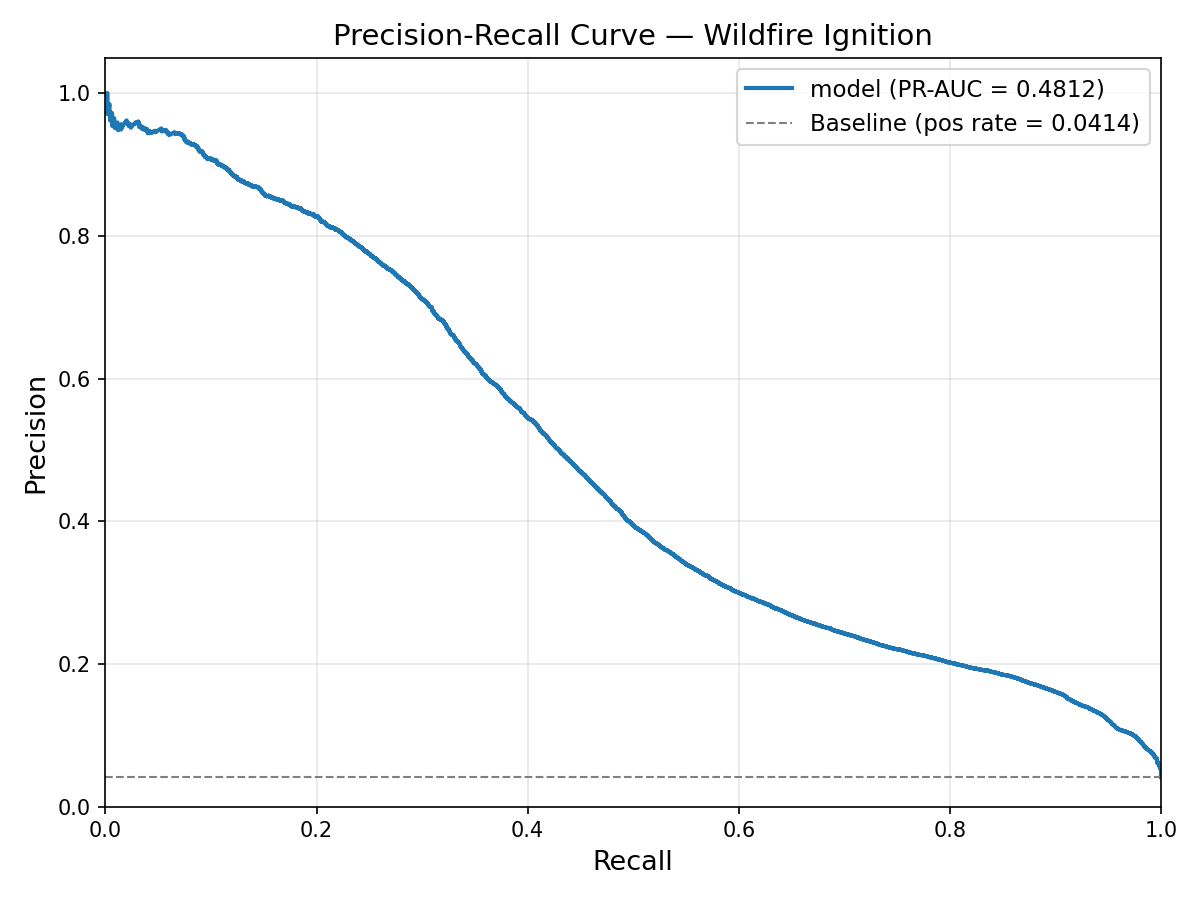
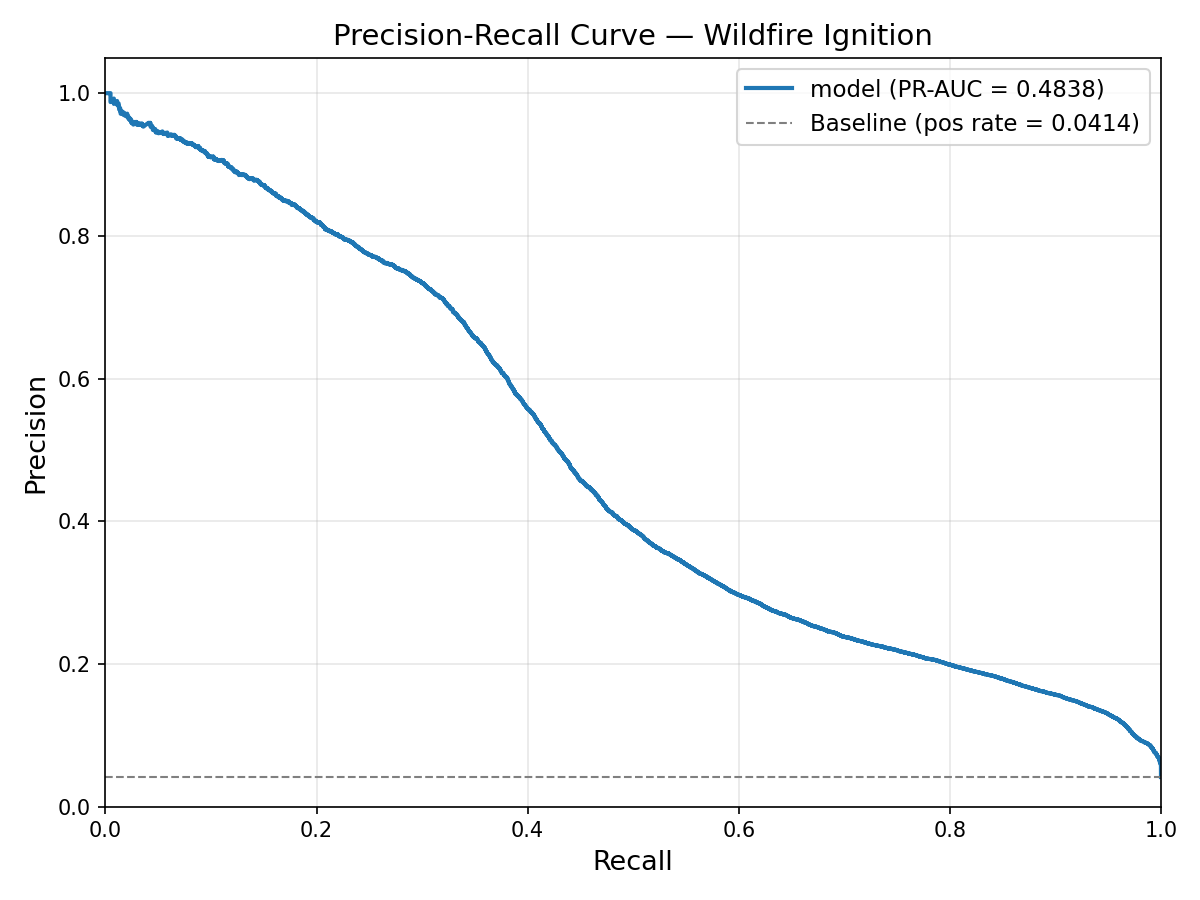
Add LANDFIRE vegetation features, improving LightGBM PR-AUC 0.467 → 0.531
Queries LANDFIRE LF2022 EVT, FBFM40, and Canopy Cover layers for all 25k
H3 cells via the ArcGIS ImageServer getSamples REST API. Results cached to
data/raw/landfire/landfire_features.parquet. Adds eval_convlstm.py for
standalone ConvLSTM evaluation (PR-AUC=0.360).

diff --git a/src/data/landfire.py b/src/data/landfire.py
@@ -1,0 +1,137 @@
+"""
+src/data/landfire.py
+====================
+Query LANDFIRE vegetation/fuel layer values at H3 cell centroids via the
+ArcGIS ImageServer getSamples REST API — no download or rasterio required.
+
+Layers queried (LF 2022)
+------------------------
+LF2022_EVT_CONUS    Existing Vegetation Type   (categorical int)
+LF2022_FBFM40_CONUS Fire Behavior Fuel Model 40 (categorical int)
+LF2022_CC_CONUS     Canopy Cover               (0–100 %)
+
+Output
+------
+DataFrame: cell_id, evt, fbfm40, canopy_cover
+Cached to data/raw/landfire/landfire_features.parquet after first run.
+"""
+
+from __future__ import annotations
+
+import logging
+import time
+from pathlib import Path
+
+import numpy as np
+import pandas as pd
+import requests
+
+log = logging.getLogger(__name__)
+
+BASE_URL = "https://lfps.usgs.gov/arcgis/rest/services/Landfire_LF2022/{layer}/ImageServer/getSamples"
+
+LAYERS = {
+    "evt":          "LF2022_EVT_CONUS",
+    "fbfm40":       "LF2022_FBFM40_CONUS",
+    "canopy_cover": "LF2022_CC_CONUS",
+}
+
+OUT_DIR = Path(__file__).resolve().parents[2] / "data" / "raw" / "landfire"
+BATCH_SIZE = 500   # points per API request (max ~1000)
+
+
+def _query_layer(lats: np.ndarray, lons: np.ndarray, layer_name: str) -> np.ndarray:
+    """
+    Query a LANDFIRE ImageServer layer at all (lat, lon) points.
+    Batches requests to stay within API limits.
+
+    Returns np.ndarray of sampled values (float32), same length as lats.
+    """
+    import json as _json
+
+    url = BASE_URL.format(layer=layer_name)
+    n = len(lats)
+    values = np.full(n, np.nan, dtype=np.float32)
+
+    for start in range(0, n, BATCH_SIZE):
+        end = min(start + BATCH_SIZE, n)
+        points = [[float(lons[i]), float(lats[i])] for i in range(start, end)]
+        geo = {"points": points, "spatialReference": {"wkid": 4326}}
+        params = {
+            "geometry":     _json.dumps(geo),
+            "geometryType": "esriGeometryMultipoint",
+            "sampleCount":  len(points),
+            "f":            "json",
+        }
+
+        for attempt in range(3):
+            try:
+                resp = requests.post(url, data=params, timeout=60)
+                resp.raise_for_status()
+                data = resp.json()
+                break
+            except Exception as exc:
+                if attempt == 2:
+                    raise
+                log.warning("Batch %d-%d attempt %d failed: %s — retrying…",
+                            start, end, attempt + 1, exc)
+                time.sleep(2 ** attempt)
+
+        for sample in data.get("samples", []):
+            idx = start + sample["locationId"]
+            try:
+                values[idx] = float(sample["value"])
+            except (ValueError, TypeError):
+                values[idx] = 0.0
+
+        if (start // BATCH_SIZE) % 10 == 0:
+            log.info("  %s: %d/%d points sampled", layer_name, end, n)
+
+    return values
+
+
+def build_vegetation_features(grid_df: pd.DataFrame,
+                               tif_dir=None) -> pd.DataFrame:
+    """
+    Build per-cell static vegetation/fuel features from LANDFIRE ImageServer.
+
+    Parameters
+    ----------
+    grid_df  : H3 grid DataFrame with columns cell_id, lat, lon
+    tif_dir  : ignored (kept for API compatibility)
+
+    Returns
+    -------
+    DataFrame with columns: cell_id, evt, fbfm40, canopy_cover
+    """
+    OUT_DIR.mkdir(parents=True, exist_ok=True)
+    parquet_path = OUT_DIR / "landfire_features.parquet"
+
+    if parquet_path.exists():
+        log.info("Loading cached LANDFIRE features from %s", parquet_path)
+        return pd.read_parquet(parquet_path)
+
+    lats = grid_df["lat"].values
+    lons = grid_df["lon"].values
+
+    result = pd.DataFrame({"cell_id": grid_df["cell_id"].values})
+
+    for col, layer_name in LAYERS.items():
+        log.info("Querying LANDFIRE layer %s (%d cells)…", layer_name, len(lats))
+        vals = _query_layer(lats, lons, layer_name)
+        result[col] = vals
+
+    result["evt"]          = result["evt"].fillna(0).astype(np.int32)
+    result["fbfm40"]       = result["fbfm40"].fillna(0).astype(np.int32)
+    result["canopy_cover"] = result["canopy_cover"].fillna(0.0).astype(np.float32)
+
+    result.to_parquet(parquet_path, index=False)
+    log.info(
+        "LANDFIRE features built and cached → %s  "
+        "(evt unique=%d, fbfm40 unique=%d, canopy_cover mean=%.1f%%)",
+        parquet_path,
+        result["evt"].nunique(),
+        result["fbfm40"].nunique(),
+        result["canopy_cover"].mean(),
+    )
+    return result

diff --git a/scripts/train_model.py b/scripts/train_model.py
@@ -63,6 +63,7 @@ RANDOM_SEED = 42
 MODIS_CSV   = PROJECT_ROOT / "data/raw/modis/MODISFireData.csv"
 WEATHER_CSV = PROJECT_ROOT / "data/raw/weather_stations/CAWeather.csv"
 PDSI_CSV    = PROJECT_ROOT / "data/raw/drought/CAPDSI.csv"
+LANDFIRE_DIR = PROJECT_ROOT / "data/raw/landfire"
 OUT_DIR     = PROJECT_ROOT / "outputs"
 (OUT_DIR / "models").mkdir(parents=True, exist_ok=True)
 (OUT_DIR / "reports").mkdir(parents=True, exist_ok=True)
@@ -413,7 +414,35 @@ def build_spatial_features(sample_df, grid_df):
 
 
 # ══════════════════════════════════════════════════════════════════════════════
-# STEP 5d — Weather-derived features
+# STEP 5d — Vegetation / fuel features (LANDFIRE)
+# ══════════════════════════════════════════════════════════════════════════════
+def build_vegetation_features(sample_df, grid_df):
+    """
+    Add static LANDFIRE vegetation and fuel features per cell.
+
+    Features added
+    --------------
+    evt           : Existing Vegetation Type code (categorical)
+    fbfm40        : Fire Behavior Fuel Model 40 code (categorical)
+    canopy_cover  : Canopy cover percentage (0–100)
+    """
+    from src.data.landfire import build_vegetation_features as _build_veg
+
+    log.info("Building vegetation features (LANDFIRE)…")
+    veg_df = _build_veg(grid_df, tif_dir=None)   # downloads if needed
+    result = sample_df.merge(veg_df, on="cell_id", how="left")
+    result["evt"]          = result["evt"].fillna(0).astype(int)
+    result["fbfm40"]       = result["fbfm40"].fillna(0).astype(int)
+    result["canopy_cover"] = result["canopy_cover"].fillna(0.0)
+    log.info(
+        "Vegetation features added. evt unique=%d, fbfm40 unique=%d, canopy_cover mean=%.1f",
+        result["evt"].nunique(), result["fbfm40"].nunique(), result["canopy_cover"].mean(),
+    )
+    return result
+
+
+# ══════════════════════════════════════════════════════════════════════════════
+# STEP 5e — Weather-derived features
 # ══════════════════════════════════════════════════════════════════════════════
 def build_derived_weather_features(df):
     """
@@ -598,6 +627,7 @@ if __name__ == "__main__":
     sample   = build_fire_history_features(sample, fire_df)
     sample   = build_spatial_features(sample, grid_df)
     sample   = build_derived_weather_features(sample)
+    sample   = build_vegetation_features(sample, grid_df)
 
     n_features_after = len([c for c in sample.columns if c not in ("cell_id", "date", "label")])
     log.info("Feature count AFTER new features: %d (+%d)", n_features_after, n_features_after - n_features_before)

diff --git a/scripts/eval_convlstm.py b/scripts/eval_convlstm.py
@@ -1,0 +1,67 @@
+#!/usr/bin/env python3
+"""
+scripts/eval_convlstm.py
+========================
+Load saved ConvLSTM weights and evaluate on the 2023 test set.
+Prints PR-AUC / ROC-AUC and comparison against LightGBM.
+"""
+
+from __future__ import annotations
+import logging, sys, warnings
+warnings.filterwarnings("ignore")
+from pathlib import Path
+
+import numpy as np
+import pandas as pd
+import torch
+
+PROJECT_ROOT = Path(__file__).resolve().parent.parent
+sys.path.insert(0, str(PROJECT_ROOT))
+
+logging.basicConfig(level=logging.INFO, format="%(asctime)s [%(levelname)s] %(message)s", datefmt="%H:%M:%S")
+log = logging.getLogger("eval_convlstm")
+
+# ── reuse constants and pipeline functions from train_convlstm ────────────────
+from scripts.train_convlstm import (
+    build_pixel_grid, build_daily_rasters, build_label_rasters,
+    WildfireDataset, evaluate_convlstm,
+    TRAIN_END, VAL_START, VAL_END, TEST_START, TEST_END,
+    SEQ_LEN, N_CHANNELS, GRID_H, GRID_W, DEVICE, RANDOM_SEED, OUT_DIR,
+)
+from src.models.convlstm_model import WildfireConvLSTM
+
+torch.manual_seed(RANDOM_SEED)
+np.random.seed(RANDOM_SEED)
+
+log.info("━━━ ConvLSTM Evaluation ━━━")
+
+_, _, cell_to_pixel, _ = build_pixel_grid()
+date_range, feature_array = build_daily_rasters(cell_to_pixel)
+label_array = build_label_rasters(cell_to_pixel, date_range)
+
+train_mask = date_range <= pd.Timestamp(TRAIN_END)
+mean = feature_array[train_mask].mean(axis=(0, 2, 3))
+std  = feature_array[train_mask].std(axis=(0, 2, 3))
+
+all_idx  = np.arange(SEQ_LEN, len(date_range))
+test_idx = all_idx[(date_range[all_idx] >= pd.Timestamp(TEST_START)) &
+                   (date_range[all_idx] <= pd.Timestamp(TEST_END))]
+log.info("Test dates: %d", len(test_idx))
+
+test_ds = WildfireDataset(test_idx, feature_array, label_array, mean, std)
+
+model = WildfireConvLSTM(input_channels=N_CHANNELS, hidden_channels=[64, 32]).to(DEVICE)
+model_path = OUT_DIR / "models" / "convlstm_model.pt"
+model.load_state_dict(torch.load(model_path, map_location=DEVICE))
+log.info("Loaded weights from %s", model_path)
+
+pr_auc, roc_auc = evaluate_convlstm(model, test_ds)
+
+log.info("")
+log.info("══════════════════════════════════════════════")
+log.info("  Model Comparison (2023 Test Set)")
+log.info("══════════════════════════════════════════════")
+log.info("  LightGBM    PR-AUC=0.4674  ROC-AUC=0.9158")
+log.info("  LogReg      PR-AUC=0.4812  ROC-AUC=0.9226")
+log.info("  ConvLSTM    PR-AUC=%.4f  ROC-AUC=%.4f", pr_auc, roc_auc)
+log.info("══════════════════════════════════════════════")

diff --git a/scripts/visualize_predictions.py b/scripts/visualize_predictions.py
@@ -207,6 +207,14 @@ def build_features_for_date(target_date: pd.Timestamp, grid_df) -> pd.DataFrame:
                                   (df[wind_col] > df[wind_col].quantile(0.60)).astype(int))
     df["consecutive_dry_days"] = (df[prcp_col] < 5.0).astype(int) * 30
 
+    # ── Vegetation features (LANDFIRE) ────────────────────────────────────
+    from src.data.landfire import build_vegetation_features as _build_veg
+    veg_df = _build_veg(grid_df, tif_dir=None)
+    df = df.merge(veg_df, on="cell_id", how="left")
+    df["evt"]          = df["evt"].fillna(0).astype(int)
+    df["fbfm40"]       = df["fbfm40"].fillna(0).astype(int)
+    df["canopy_cover"] = df["canopy_cover"].fillna(0.0)
+
     log.info("Features built: %d cells × %d columns", len(df), len(df.columns))
     return df
 
@@ -228,6 +236,7 @@ def run_inference(feature_df) -> pd.DataFrame:
         'days_since_last_fire', 'cell_fire_count_1yr', 'neighbor_fire_7d',
         'neighbor_fire_30d', 'cell_lat', 'cell_lon', 'dist_to_coast_km', 'is_inland',
         'temp_range', 'vpd_proxy', 'hot_dry_windy', 'consecutive_dry_days',
+        'evt', 'fbfm40', 'canopy_cover',
     ]
     X = feature_df[FEATURE_COLS].fillna(0)
     proba = model.predict_proba(X)[:, 1]
